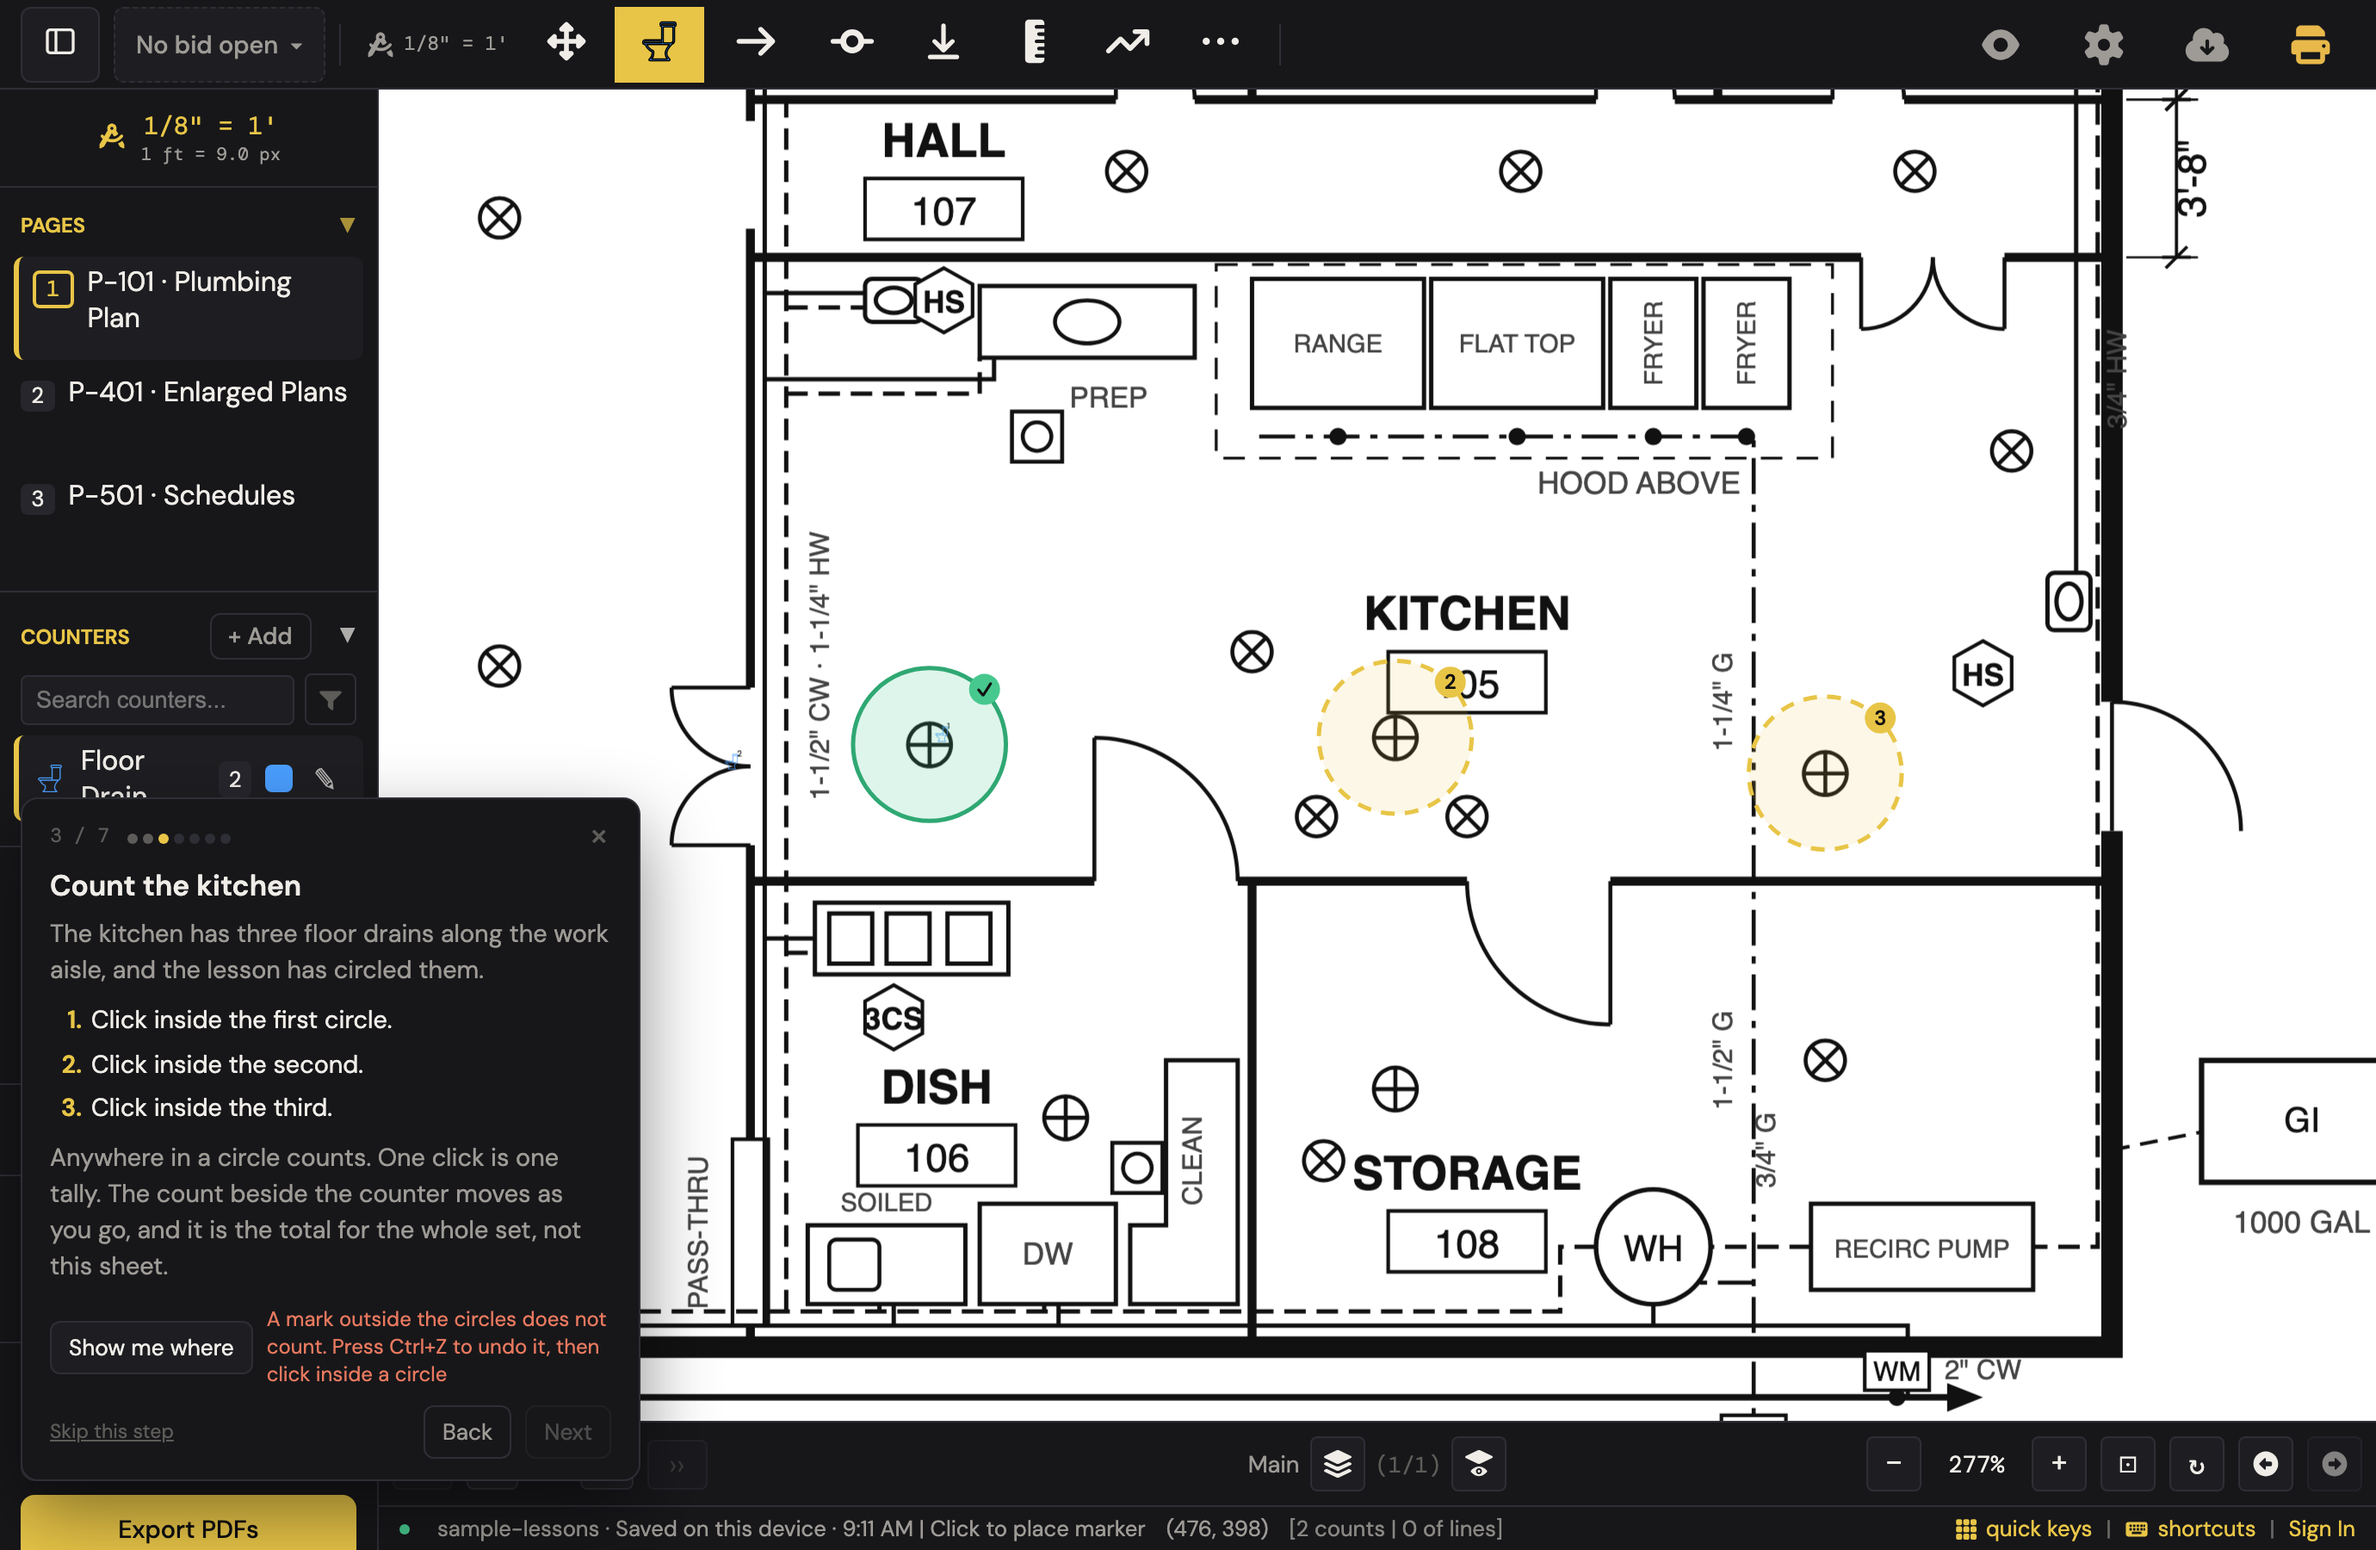
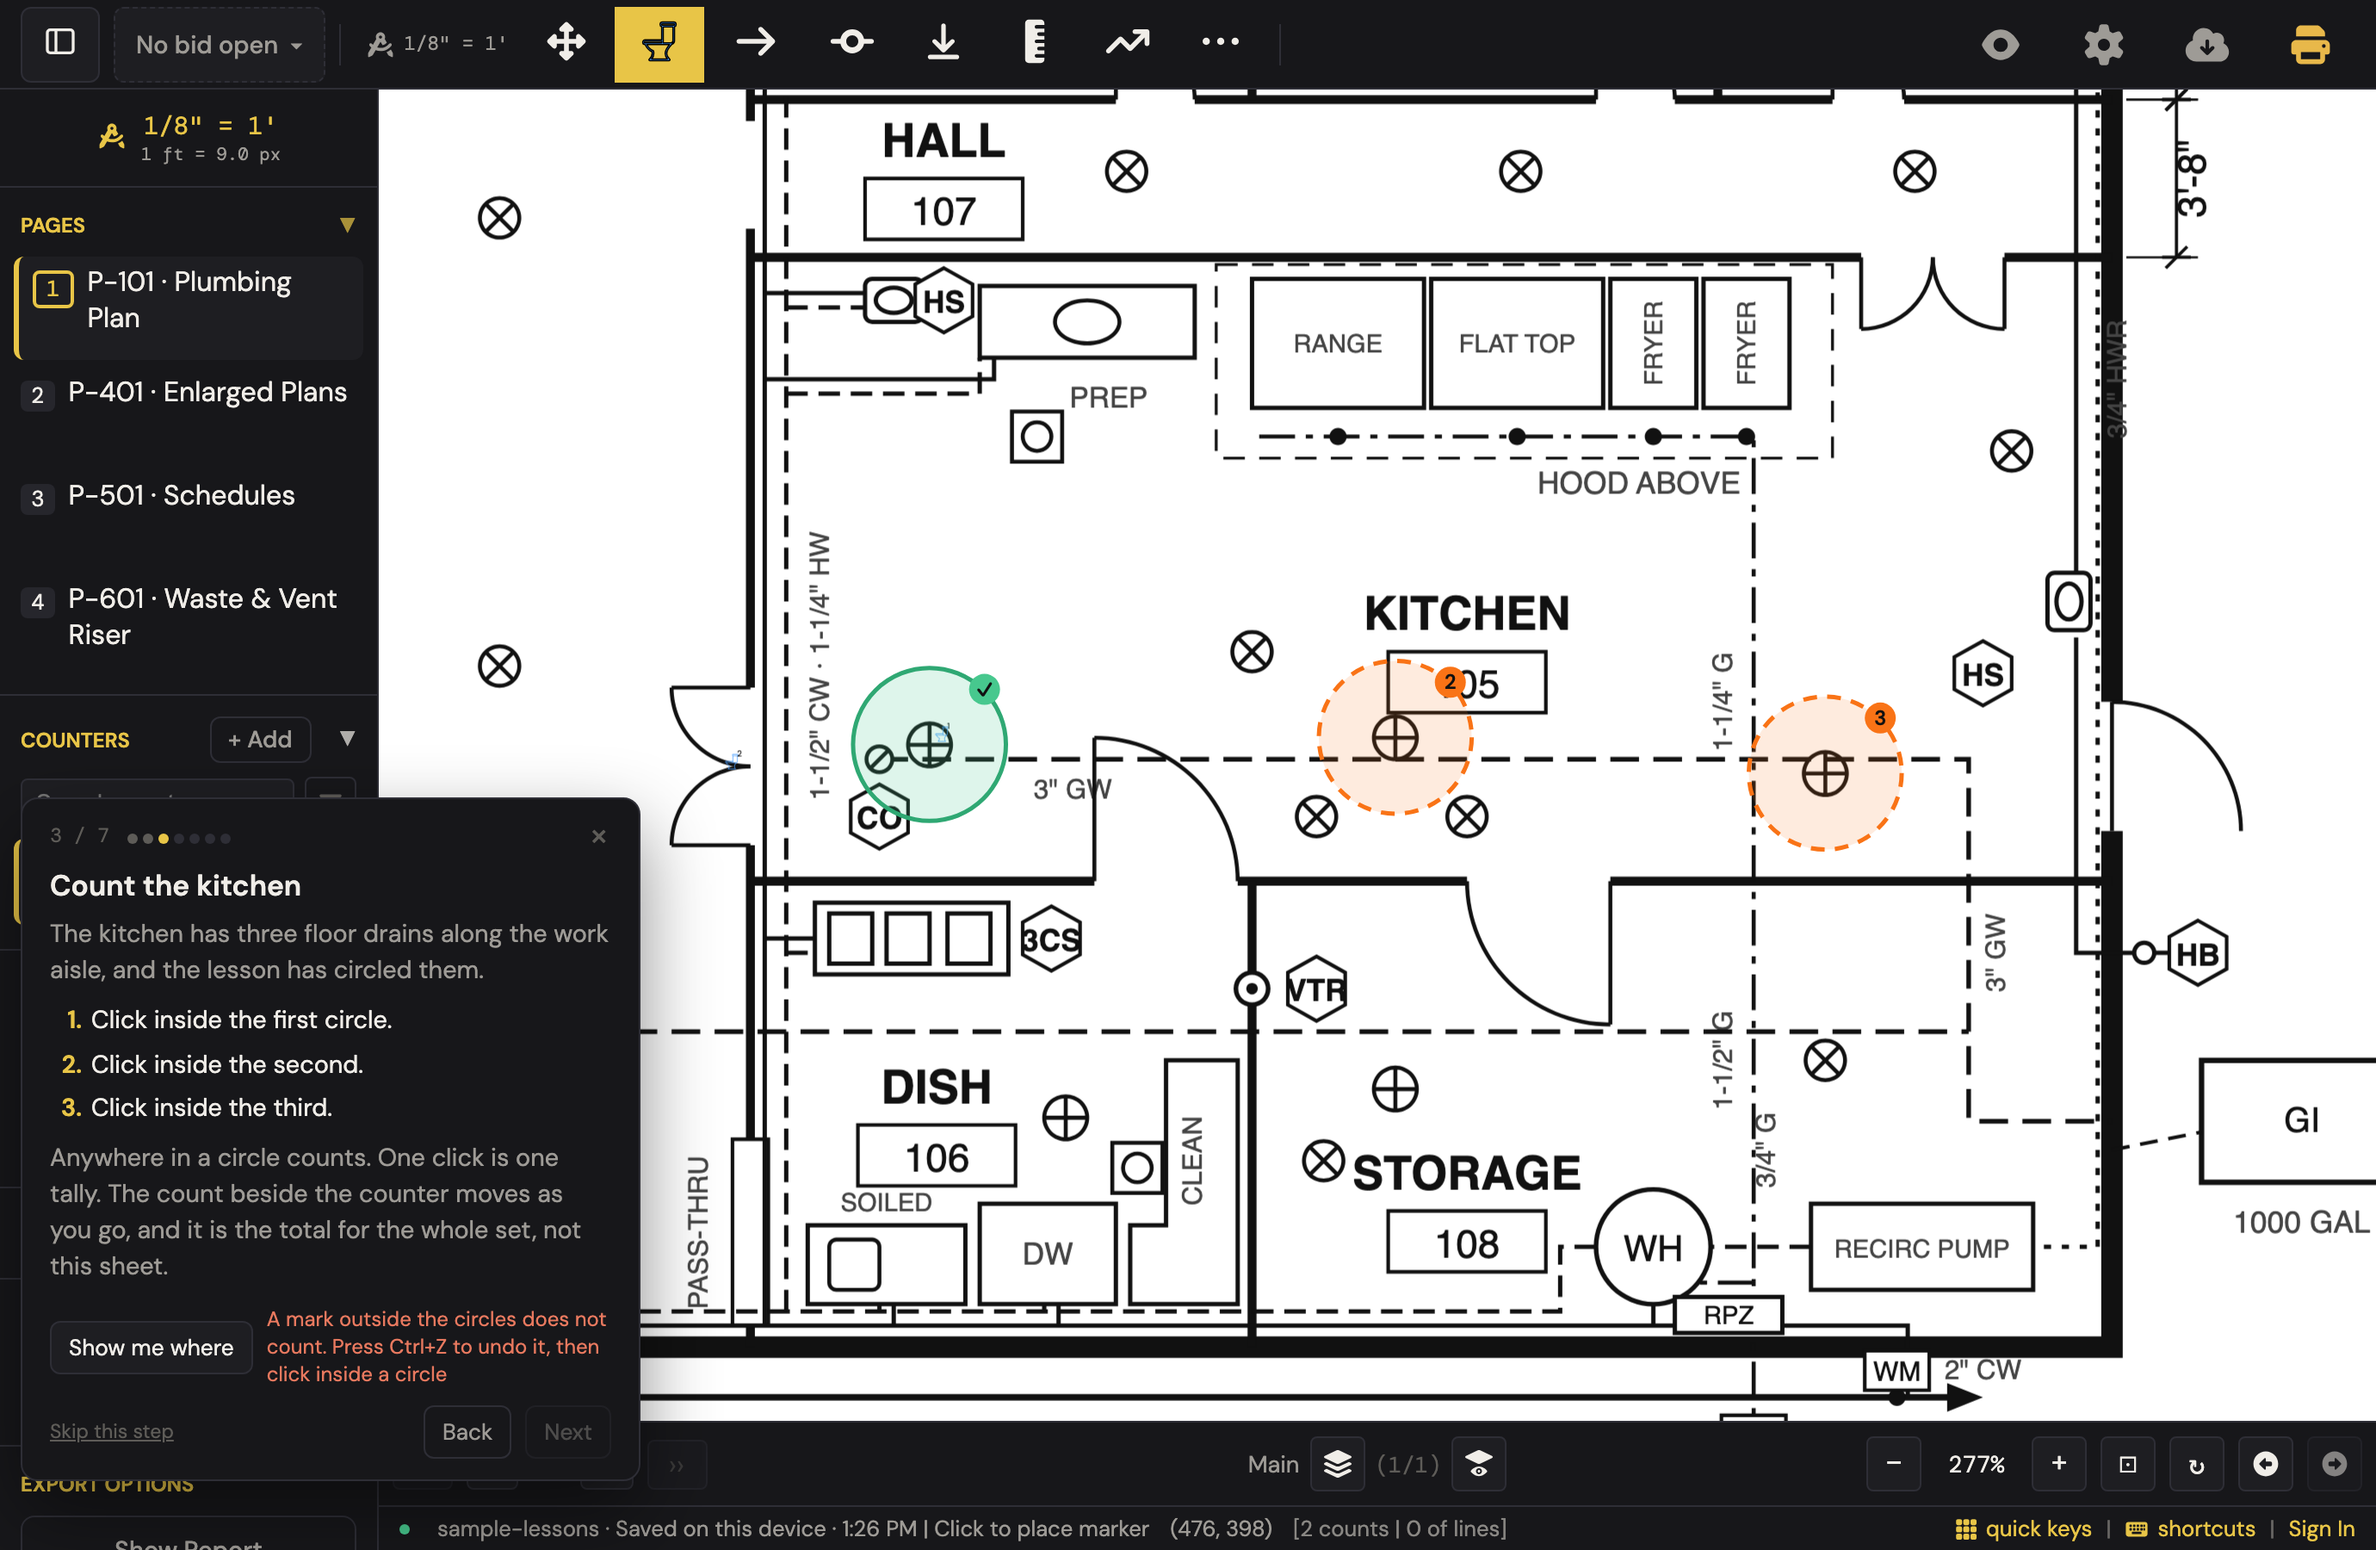
style(tour): the click zones on the sheet are orange, not the accent yellow
The circles and boundaries a tour, lesson or course step draws on the
plan were the accent yellow #e8c547: nearly invisible under the
spotlight's dimming, the same colour as the app's controls, and close to
a scale zone's gold. They now read two :root tokens, --zone #f97316 and
--zone-ink #9a3412 (a boundary's label). Done stays green; the spotlight
ring around a control stays the accent (zones only, the owner's call).
lesson-targets.png regenerated.

diff --git a/styles.css b/styles.css
@@ -7,6 +7,8 @@
       --border2: #3a3a44;
       --accent: #e8c547;
       --accent2: #c9a82e;
+      --zone: #f97316;       /* tour / lesson click zones on the sheet: orange, apart from the yellow accent and the gold scale zones */
+      --zone-ink: #9a3412;   /* a zone's text label */
       --text: #f0ede8;
       --text2: #9e9b96;
       --text3: #5e5c58;
@@ -1728,13 +1730,13 @@ label.schedule-palette-row { display: grid; grid-template-columns: 18px 44px 1fr
 .tour-link { color: var(--accent); }
 /* On-sheet targets (features/tutorial.js): circles and boundaries drawn over the plan. */
 .tour-zones { position: fixed; left: 0; top: 0; width: 100vw; height: 100vh; pointer-events: none; overflow: visible; }
-.tour-zone { fill: rgba(232, 197, 71, 0.13); stroke: #e8c547; stroke-width: 2.5; stroke-dasharray: 8 6; }
-.tour-zone-inner { fill: none; stroke: #e8c547; stroke-width: 1.5; stroke-dasharray: 3 4; opacity: 0.8; }
+.tour-zone { fill: rgba(249, 115, 22, 0.14); stroke: var(--zone); stroke-width: 2.5; stroke-dasharray: 8 6; }
+.tour-zone-inner { fill: none; stroke: var(--zone); stroke-width: 1.5; stroke-dasharray: 3 4; opacity: 0.8; }
 .tour-zone.is-done { fill: rgba(71, 200, 142, 0.18); stroke: #2fa873; stroke-dasharray: none; }
 .tour-zone-tag { font: 600 12px 'DM Sans', system-ui, sans-serif; fill: #111; }
-.tour-zone-tag-bg { fill: #e8c547; }
+.tour-zone-tag-bg { fill: var(--zone); }
 .tour-zone-tag-bg.is-done { fill: #47c88e; }
-.tour-zone-label { font: 600 12px 'DM Sans', system-ui, sans-serif; fill: #6b5200; paint-order: stroke; stroke: rgba(255,255,255,0.85); stroke-width: 3px; }
+.tour-zone-label { font: 600 12px 'DM Sans', system-ui, sans-serif; fill: var(--zone-ink); paint-order: stroke; stroke: rgba(255,255,255,0.85); stroke-width: 3px; }
 @keyframes tourZonePulse { 0% { stroke-width: 2.5; } 50% { stroke-width: 9; } 100% { stroke-width: 2.5; } }
 .tour-zones.is-pulsing .tour-zone:not(.is-done) { animation: tourZonePulse 0.7s ease-in-out 3; }
 @keyframes tourSpotPulse { 0% { box-shadow: 0 0 0 9999px rgba(0,0,0,0.55), 0 0 0 2px var(--accent); } 50% { box-shadow: 0 0 0 9999px rgba(0,0,0,0.55), 0 0 0 9px var(--accent); } 100% { box-shadow: 0 0 0 9999px rgba(0,0,0,0.55), 0 0 0 2px var(--accent); } }

diff --git a/sw.js b/sw.js
@@ -21,7 +21,7 @@
  * visit once the CDN has settled. The app's admin "global force reload" clears caches
  * as a backstop.
  */
-const CACHE_VERSION = 'be47cd0bb872';
+const CACHE_VERSION = '9a1f3d8356ed';
 const CACHE_NAME = `counttooling-shell-${CACHE_VERSION}`;
 
 // The full same-origin app shell. Source of truth = the <script>/<link> tags in
@@ -209,7 +209,7 @@ const PRECACHE_SHA256 = {
[8 lines of base64/hex data omitted]

diff --git a/ARCHITECTURE.md b/ARCHITECTURE.md
@@ -33,7 +33,7 @@ off — and where it doesn't.
 | [pdf-tile-cache.js](pdf-tile-cache.js) | 867 | Done (stage 1, 2026-07-30) — the PDF raster-cache substrate extracted from app.js's "PDF render bitmap cache" section (`createPdfTileCache(ctx)`, the save-engine seam recipe): page-bitmap LRU, downsample pyramid, persisted zoom rungs, idle prefetch, full-document warm-up. Pinned by nine Playwright specs (page-switch-cache, pyramid, pyramid-persist, rung-prefetch, doc-warmup, zoom-ladder, commit-tile, crop-tile, tile-grid). Stage 2 (later): the Sharp crop tile / tile grid section. |
 | [canvas-draw.js](canvas-draw.js) | 1,930 | Done — the unified annotation draw core (`createCanvasDraw(deps)` + `drawAnnotationsCore`), node-tested, guarded by [render-pixels.spec.js](render-pixels.spec.js). Both draw paths are thin env-builders over it. |
 | [app/index.html](app/index.html) | 3,760 | The shell: HTML structure + every modal, no inline JS. Flat markup with no build step to split it; grows roughly linearly with modal count. Leave. |
-| [styles.css](styles.css) | 2,651 | All CSS, token-organized. Leave. |
+| [styles.css](styles.css) | 2,653 | All CSS, token-organized. Leave. |
 | [features/load-project.js](features/load-project.js) | 779 | Largest feature file (Load Project modal + filters), split 2026-07-30: the copy/fork domain moved to [features/copy-project.js](features/copy-project.js) at the file's documented domain boundary, and the row renderer was decomposed along its action boundaries (size / row HTML / actions / admin access / load click). Healthy — leave. |
 | [annotation-model.js](annotation-model.js) | 935 | Done — extracted canvas/annotation data model + node tests. |
 | [undo-stack.js](undo-stack.js) | 165 | Done (2026-07-30) — `createUndoStack(ctx)` split out of annotation-model.js: the model is pure-ish data transformation, the stack is a command-history controller with UI side-effect hooks in its ctx. Covered by the undo tests in [annotation-model.test.js](annotation-model.test.js) (interleaved with model tests, dual-require). |

diff --git a/CHANGELOG.md b/CHANGELOG.md
@@ -13,6 +13,21 @@ expired recovery UX" work occupies that slot).
 
 ---
 
+## style(tour): the click zones on the sheet are orange, not the accent yellow (2026-09-24)
+
+The circles and drag boundaries a tour, lesson or course step draws on the plan (`.tour-zone*`,
+features/tutorial.js `#tourZones`) were the app's accent yellow `#e8c547`. Walked on the plumbing
+tour: under the spotlight's gray dimming the yellow boundary nearly vanished (about 1.1:1 against the
+dimmed sheet, 1.6:1 on white); yellow already means an app control (the armed tool, Export PDFs,
+the card's step numbers) and the default counter; and a scale zone is dashed gold `#c9a227`, so the
+Scale lesson's boundary and the zone the reader draws inside it looked alike. The zones now read two
+new `:root` tokens in styles.css, `--zone` `#f97316` (about 2.8:1 on white) and `--zone-ink`
+`#9a3412` for a boundary's label; the tag numbers stay near-black (about 7:1). The done state stays
+green, and the spotlight ring around a control stays the accent yellow, so yellow means a control
+and orange means a spot on your plan (the owner's call: zones only). A deeper `#ea580c` was tried
+and passed over, too close to the lessons' red counters. `guides/img/lesson-targets.png`
+regenerated. No spec reads the colour (they count zones).
+
 ## fix(lessons): a lesson clears the sidebar search boxes when its set opens, and types them back when it stops (2026-09-24)
 
 The second half of wendi's report: the Counters search box still held "FD" from her last bid (the
